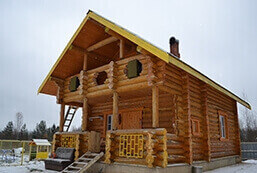
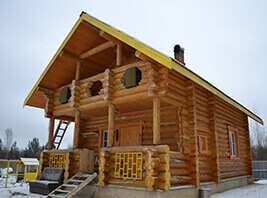
commit

diff --git a/css/style.css b/css/style.css
@@ -1,1 +1,1 @@
-.page-header{-webkit-box-sizing:border-box;box-sizing:border-box;display:-webkit-box;display:-ms-flexbox;display:flex;-webkit-box-orient:vertical;-webkit-box-direction:normal;-ms-flex-direction:column;flex-direction:column;position:fixed;top:0;background-image:url("../img/headerMenuSmallBg.jpg");background-color:#492b10;background-repeat:no-repeat;background-position:top center;background-size:cover;padding:8px 9px;width:100%;z-index:15}.page-header--active{background-image:url("../img/headerMenuBigBg.jpg")}.page-header__logo{width:61px;height:65px}.page-header__btn{position:absolute;top:31px;right:31px;display:block;width:26px;height:22px;background-color:transparent}.page-header__btn span,.page-header__btn span::before,.page-header__btn span::after{position:absolute;top:50%;margin-top:-1px;left:50%;margin-left:-10px;width:20px;height:2px;background-color:#fff}.page-header__btn span::before,.page-header__btn span::after{content:"";display:block;-webkit-transition:.2s;transition:.2s}.page-header__btn span::before{-webkit-transform:translateY(-5px);transform:translateY(-5px)}.page-header__btn span::after{-webkit-transform:translateY(5px);transform:translateY(5px)}.page-header__btn--active span{height:0}.page-header__btn--active span::before{-webkit-transform:rotate(-45deg);transform:rotate(-45deg);-webkit-transform-origin:center;transform-origin:center}.page-header__btn--active span::after{-webkit-transform:rotate(45deg);transform:rotate(45deg);-webkit-transform-origin:center;transform-origin:center}.main-nav__list{padding:0;padding-top:20px;padding-bottom:30px;margin:0;list-style:none;font-family:"Officina Serif C";font-size:16px;font-weight:700;line-height:25.2px;text-transform:uppercase;display:-webkit-box;display:-ms-flexbox;display:flex;-webkit-box-orient:vertical;-webkit-box-direction:normal;-ms-flex-direction:column;flex-direction:column;-webkit-box-pack:justify;-ms-flex-pack:justify;justify-content:space-between;-webkit-box-align:center;-ms-flex-align:center;align-items:center;min-height:400px;display:none}.page-header__contacts{color:#fefefe;text-align:center;margin-top:140px}.page-header__tel{font-family:"Officina Serif C";font-size:20px;font-weight:700;line-height:18.19px;display:block;margin-bottom:13px}.page-header__worktime{font-family:Roboto;font-size:12px;font-weight:400;line-height:13px;display:block;margin-bottom:50px}.page-header__callback{color:#fefefe;font-family:"Officina Serif C";font-size:16px;font-weight:700;line-height:18.19px}.main-nav__list--active{display:-webkit-box;display:-ms-flexbox;display:flex}.main-nav__item{cursor:pointer}.main-nav__item a{color:#fff}@media (min-width: 768px){.page-header{left:0;width:83px;height:100vh;background-image:url("../img/headerMenuTabSmall.jpg");padding:14px 7px}.page-header--active{background-image:url("../img/headerMenuTabBig.jpg");width:209px}.page-header__logo{width:70px;height:74px}.page-header--active .page-header__logo{width:107px;height:113px;margin-top:12px;margin-left:40px}.page-header__btn{top:50%;left:50%;-webkit-transform:translateY(-50%);transform:translateY(-50%);-webkit-transform:translateX(-50%);transform:translateX(-50%)}.page-header__btn::after{content:"Меню";position:absolute;color:#fff;top:30px;left:-5px;font-family:"Officina Serif C";font-size:12px;font-weight:700;line-height:20px;text-transform:uppercase}.page-header--active .page-header__btn{top:10px;left:180px;-webkit-transform:translateY(0);transform:translateY(0);-webkit-transform:translateX(0);transform:translateX(0)}.page-header--active .page-header__btn::after{display:none}.main-nav__list{padding-top:0px;margin-top:52px;padding-left:30px;-webkit-box-align:start;-ms-flex-align:start;align-items:flex-start;min-height:265px}.page-header--active .page-header__contacts{display:block}}@media (min-width: 1025px){.page-header{width:220px;background-image:url("../img/headerMenuTabBig.jpg");padding:29px 36px 0 25px}.page-header__logo{width:159px;height:167px;position:relative}.page-header__logo::after{content:"Качество, проверенное поколениями";position:absolute;color:#fff;font-family:"Officina Serif C";font-size:15px;font-weight:700;line-height:20px;text-transform:uppercase;bottom:-80px;left:0;text-align:center}.page-header__btn{display:none}.main-nav__list{display:-webkit-box;display:-ms-flexbox;display:flex;margin-top:180px;padding-left:10px}.page-header__contacts.hidden-mobile{display:block}}@media (min-width: 1201px){.page-header{width:262px;padding-left:48px;padding-right:55px}}.page-main{margin-top:80px;padding-top:25px}.page-main__breadcrumbs{padding:0;margin:0;list-style-type:none;margin-bottom:40px}.page-main__breadcrumbs li{margin-right:35px;position:relative}.page-main__breadcrumbs li:first-child::after{content:"";position:absolute;width:18px;height:5px;background-image:url(../img/bredcrumbsArrow.png);top:12px;right:-25px}.page-main__breadcrumbs a{color:#1c1c1c;font-family:Roboto;font-size:16px;font-weight:300;line-height:29.98px}.page-main__title{padding:0;margin:0;margin-left:18px;margin-bottom:22px;color:#503314;font-family:"Officina Serif C";font-size:30px;font-weight:700;line-height:30px}.carousel{margin-bottom:10px}.carousel-cell{width:100%;counter-increment:carousel-cell}.carousel-nav .carousel-cell{width:23%;margin-left:12px}.carousel-cell-image{display:block;margin:0 auto;max-width:100%;max-height:100%}.flickity-prev-next-button{background-color:transparent;width:8px;height:14px}.flickity-prev-next-button.previous{left:-5px}.flickity-prev-next-button.next{right:0}.flickity-button:disabled{opacity:1}.flickity-prev-next-button .flickity-button-icon{width:100%;height:100%}.product-floor{display:-webkit-box;display:-ms-flexbox;display:flex;padding-left:15px;padding-right:15px;-webkit-box-pack:justify;-ms-flex-pack:justify;justify-content:space-between}.product-floor__wraper:nth-child(1){margin-right:40px}.product-floor__title{color:#343434;font-family:Roboto;font-size:14px;font-weight:300;display:block;margin-bottom:20px;margin-top:25px}.social{margin-top:34px;padding-left:9px}.social__share{color:#343434;font-family:Roboto;font-size:16px;font-weight:300}.social__list{display:-webkit-box;display:-ms-flexbox;display:flex;list-style:none;padding:0;margin:0;margin-top:15px}.social__button{display:block;width:35px;height:34px;margin-right:12px}.social__button:hover{cursor:pointer}.vk-button{background-image:url("../img/vk.png");background-repeat:no-repeat}.ok-button{background-image:url("../img/ok.png");background-repeat:no-repeat}.fb-button{background-image:url("../img/fb.png");background-repeat:no-repeat}.social__count{display:block;width:57px;height:41px;border-radius:35px;color:#b2b2b2;font-size:14px;line-height:41px;background-color:#e8e8e8;text-align:center;position:relative}.social__count::before{content:"";position:absolute;top:15px;left:-12px;border:7px solid transparent;border-right:7px solid #efefef}.product-characteristics{margin-top:55px;padding-left:10px;padding-right:20px}.characteristics-list{padding:0;margin:0;margin-left:80px;list-style:none;min-height:230px;display:-webkit-box;display:-ms-flexbox;display:flex;-webkit-box-orient:vertical;-webkit-box-direction:normal;-ms-flex-direction:column;flex-direction:column;-webkit-box-pack:justify;-ms-flex-pack:justify;justify-content:space-between;position:relative}.characteristics-list::before{position:absolute;content:"";min-height:235px;width:53px;background-image:url("../img/charIcons.png");left:-70px}.characteristics-list__item{font-size:16px;font-weight:300;line-height:21.94px;font-family:"Roboto";font-weight:300}.characteristics-list__item b{font-weight:700;display:block}.product-characteristics__price{margin:0;padding:0;margin-top:50px;margin-bottom:20px}.price__title{margin:0;margin-bottom:21px;color:#343434;font-family:Roboto;font-size:16px;font-weight:300}.price__text{color:#006022;font-family:"Officina Serif C";font-size:30px;font-weight:700;margin-bottom:35px}.order__button{display:block;-webkit-box-sizing:border-box;box-sizing:border-box;width:255px;height:66px;color:#fff;font-family:"Officina Serif C";font-size:22px;font-weight:700;line-height:66px;text-align:center;background-image:url("../img/buttonBg.jpg");background-position:center center;background-repeat:no-repeat;background-size:110%;background-color:#006022;margin-bottom:37px;cursor:pointer}.product-characteristics__text{color:#1c1c1c;font-size:16px;font-weight:300;line-height:23.94px;margin:0;margin-bottom:31px}@media (min-width: 768px){.page-main{margin-top:0;margin-left:83px;padding:20px 10px}.page-main__breadcrumbs.hidden-mobile{display:-webkit-box;display:-ms-flexbox;display:flex}.page-main__title{font-size:60px;font-weight:700;line-height:60px;margin-left:0;margin-bottom:35px}.page-main__items-wraper{display:-webkit-box;display:-ms-flexbox;display:flex;-ms-flex-wrap:wrap;flex-wrap:wrap}.product-photos{margin:0 auto;min-width:638px}.page-main__slider{width:638px}.product-floor{padding:0}.product-floor__title{font-size:18px;margin-top:45px;margin-bottom:25px}.product-information{margin-left:18px;width:255px}.social{margin-top:0;margin-bottom:55px;padding:0}.social__share{font-size:18px}.product-characteristics{padding:0}.characteristics-list__item{font-size:18px}.price__title{font-size:18px}}@media (min-width: 1025px){.page-main{margin-left:220px;padding-left:20px}.product-photos{min-width:674px}.page-main__slider{width:674px}.product-floor{padding-right:37px}}@media (min-width: 1201px){.page-main{margin-left:664px;padding-left:28px;margin-bottom:50px}.product-information{width:402px;height:100vh;margin:0;position:fixed;top:0;left:262px;background-color:#f7f7f7;padding:30px 50px;-webkit-box-sizing:border-box;box-sizing:border-box}.social{margin-bottom:85px}.product-characteristics__price{margin-bottom:35px}.order__button{margin-bottom:60px}.page-main__title{margin-bottom:42px}.product-photos{display:-webkit-box;display:-ms-flexbox;display:flex;margin:0;-ms-flex-wrap:wrap;flex-wrap:wrap}.page-main__slider{width:773px}.product-floor{-ms-flex-wrap:wrap;flex-wrap:wrap;padding-right:0;max-width:320px;padding-left:50px}.product-floor__wraper:nth-child(1){margin-right:0px;margin-bottom:40px}.product-floor__title{margin-top:0}}.complectation__title{-webkit-box-sizing:border-box;box-sizing:border-box;margin:0;padding:25px 15px;color:#1c1c1c;font-family:"Officina Serif C";font-size:22px;font-weight:700;min-height:104px;background-color:#f2f2f2}.complectation__list{padding:0;margin:0;list-style:none;color:#343434;font-family:Roboto;font-size:16px;font-weight:300}.complectation__item{padding:15px 15px 12px}.complectation__item:nth-child(2n){background-color:#f2f2f2}.complectation__price{height:104px;max-width:541px;line-height:104px;text-align:center;color:#fff;margin:0 15px;font-family:"Officina Serif C";font-size:30px;font-weight:700;background-image:url("../img/complectationImg1.jpg");background-repeat:no-repeat}.complectation__wraper:nth-child(2) .complectation__price{background-image:url("../img/complectationImg2.jpg")}@media (min-width: 768px){.complectation{margin-top:0;margin-left:83px;padding:0px 10px 28px;display:-webkit-box;display:-ms-flexbox;display:flex;-webkit-box-pack:center;-ms-flex-pack:center;justify-content:center}.complectation__wraper{max-width:457px;margin-right:7px}.complectation__wraper:nth-child(2n){margin-right:0px}.complectation__price{margin:0}}@media (min-width: 1025px){.complectation{margin-left:220px;padding-left:20px}.complectation__wraper{margin-right:22px}}@media (min-width: 1201px){.complectation{margin-left:664px;-webkit-box-pack:start;-ms-flex-pack:start;justify-content:flex-start;-ms-flex-wrap:wrap;flex-wrap:wrap}.complectation__wraper{min-width:541px;margin-right:28px}}.delivery{margin-top:20px;background-color:#f2f2f2;padding:23px 15px;position:relative}.delivery__title{margin:0;color:#343434;font-family:"Officina Serif C";font-size:24px;font-weight:700}.delivery__price-text,.delivery__number-text{margin:0;margin-top:30px;font-size:14px;font-weight:300;line-height:21.94px}.delivery__price-text b,.delivery__number-text b{font-size:16px;font-weight:700;line-height:18.95px}.delivery__number-text{margin-bottom:90px;position:relative}.delivery__number-text::after{content:"";position:absolute;width:80%;max-width:420px;height:35px;left:45%;-webkit-transform:translateX(-50%);transform:translateX(-50%);bottom:-70px;background-image:url("../img/deliveryIcon.png"),url("../img/deliveryIcon.png"),url("../img/deliveryIcon.png");background-position:50% 50%,0% 50%,100% 50%;background-repeat:no-repeat,no-repeat,no-repeat}@media (min-width: 768px){.delivery{margin-left:83px;margin-top:0;padding:42px 0 56px}.deliver__wraper{display:-webkit-box;display:-ms-flexbox;display:flex;-webkit-box-orient:vertical;-webkit-box-direction:normal;-ms-flex-direction:column;flex-direction:column;max-width:444px;margin:0 auto}.delivery__title{font-size:30px;text-align:center}.delivery__price-text,.delivery__number-text{font-size:18px;line-height:23.94px;margin-top:23px;text-align:center}.delivery__price-text{-webkit-box-ordinal-group:3;-ms-flex-order:2;order:2}.delivery__number-text{margin-bottom:125px}.delivery__number-text::after{content:"";position:absolute;width:530px;max-width:530px;height:48px;left:50%;top:90px;background-image:url("../img/deliveryIconBig.png"),url("../img/deliveryIconBig.png"),url("../img/deliveryIconBig.png"),url("../img/deliveryIconBig.png");background-position:0% 50%,33% 50%,66% 50%,100% 50%;background-repeat:no-repeat,no-repeat,no-repeat,no-repeat}}@media (min-width: 1025px){.delivery{margin-left:220px}}@media (min-width: 1201px){.delivery{margin-left:664px}}.product-description{padding-top:30px}.product-description__title{padding:0;padding-left:13px;padding-right:11px;margin:0;margin-bottom:25px;font-family:"Officina Serif C";font-size:24px;font-weight:700}.product-description__text{padding:0;padding-left:13px;padding-right:11px;margin:0;font-size:16px;font-weight:300;line-height:21.94px;margin-bottom:45px}.product-description__text--reverse{display:none}.product-description__img{position:relative;width:100%;max-width:829px;margin-bottom:25px;min-height:210px}.product-description__img::after{content:"";position:absolute;width:19px;height:19px;background-color:#fff;border-radius:50%;top:50%;left:41%;-webkit-transform:translateY(-50%);transform:translateY(-50%);-webkit-transform:translateX(-50%);transform:translateX(-50%);background-image:url("../img/descHandTool.png");background-repeat:no-repeat;background-size:50%;background-position:50% 50%;cursor:pointer}.product-description__img::before{content:"";position:absolute;width:100%;height:100%;background-image:url("../img/descImg2.png");background-repeat:no-repeat;background-position:100% 100%;background-size:85%}@media (min-width: 768px){.product-description{margin-left:83px;padding:58px 25px 0 24px;margin-bottom:52px}.product-description__title{font-size:30px;text-align:center;padding:0}.product-description__text.product-description__text--reverse{display:block;line-height:23.94px;text-align:center;padding:0}.product-description__text{display:none}.product-description__img{margin:0 auto}}@media (min-width: 1025px){.product-description{margin-left:220px;padding-left:20px;padding-right:27px}}@media (min-width: 1201px){.product-description{margin-left:664px}}.example{padding:0 7px}.example__title{margin:0 0 23px 16px;color:#1c1c1c;font-family:"Officina Serif C";font-size:24px;font-weight:700}.example__video{margin-bottom:40px;position:relative;max-width:539px;max-height:363px}.example__video::before{content:"";position:absolute;width:100%;height:100%;max-width:539px;max-height:363px;background:#000;opacity:.3}.example__video::after{content:"";position:absolute;width:33px;height:28px;background-image:url("../img/video.png");background-repeat:no-repeat;background-position:50% 50%;left:50%;top:50%;-webkit-transform:translateY(-50%);transform:translateY(-50%);-webkit-transform:translateX(-50%);transform:translateX(-50%)}.example__adress{display:block;margin-top:24px;font-size:16px;font-weight:300;margin-bottom:20px}.example-feedback__img{position:relative}.example-feedback__img::after{position:absolute;content:"pdf";width:29px;height:19px;background-color:#006022;color:#fff;font-size:10px;line-height:19px;text-align:center;font-weight:700;text-transform:uppercase}@media (min-width: 768px){.example{margin-left:83px;padding:10px 35px 55px 55px}.example__wraper{display:-webkit-box;display:-ms-flexbox;display:flex;margin:0 auto;-webkit-box-pack:center;-ms-flex-pack:center;justify-content:center}.example__video{-webkit-box-ordinal-group:3;-ms-flex-order:2;order:2;margin-left:51px}.example__title{font-size:30px;text-align:center;margin-bottom:35px;margin-left:0}}@media (min-width: 1025px){.example{margin-left:220px}}@media (min-width: 1201px){.example{margin-left:664px;padding-bottom:50px;padding-left:28px}.example__images.hidden-mobile{display:block;margin-right:28px}.example__wraper{-webkit-box-pack:start;-ms-flex-pack:start;justify-content:flex-start}.example__video{margin-left:30px}}@media (min-width: 1201px){.gallery.hidden-mobile{margin-left:664px;display:-webkit-box;display:-ms-flexbox;display:flex;-ms-flex-wrap:wrap;flex-wrap:wrap;padding-left:28px;margin-bottom:105px}.gallery__img{margin-bottom:15px;margin-right:14px}.gallery__img:nth-child(4n){margin-right:0}}.footer__information{display:-webkit-box;display:-ms-flexbox;display:flex;-webkit-box-pack:justify;-ms-flex-pack:justify;justify-content:space-between;margin-bottom:55px}.footer__navigation{display:-webkit-box;display:-ms-flexbox;display:flex;-webkit-box-pack:justify;-ms-flex-pack:justify;justify-content:space-between;color:#494949;font-size:15px;font-weight:300;line-height:29.92px}.production-nav{margin-right:70px}.production-nav__title,.projects-nav__title{font-weight:700;margin:0;margin-bottom:5px}.production-nav__list,.projects-nav__list{list-style:none;padding:0;margin:0}.production-nav__list a,.projects-nav__list a{color:#494949}.footer-contacts{display:-webkit-box;display:-ms-flexbox;display:flex;color:#494949;font-size:15px;font-weight:300;line-height:21.94px}.footer-contacts__address{margin-right:90px}.production-addres{margin-bottom:30px}.production-addres__title,.office__addres__title{margin:0;font-weight:700;margin-bottom:5px}.production-addres__text a,.office__addres__text a{display:block;color:#006022}.footer-contacts__links{color:#494949;font-size:15px;font-weight:300;line-height:29.92px}.footer-contacts__tel{font-weight:700;color:#494949;display:block}.footer-contacts__time,.footer-contacts__mail{display:block}.footer-contacts__mail{color:#006022}.footer-social{margin-top:40px;max-width:110px;display:-webkit-box;display:-ms-flexbox;display:flex;-webkit-box-pack:justify;-ms-flex-pack:justify;justify-content:space-between;-webkit-box-align:center;-ms-flex-align:center;align-items:center}.footer-social__button{background-repeat:no-repeat;background-position:center center}.Vkontakte-btn{width:24px;height:14px;background-image:url("../img/footerVk.png")}.Instagram-btn{background-image:url("../img/footerIg.png");width:17px;height:17px}.Facebook-btn{background-image:url("../img/footerFb.png");width:11px;height:21px}.footer__copyright{display:-webkit-box;display:-ms-flexbox;display:flex;-webkit-box-pack:justify;-ms-flex-pack:justify;justify-content:space-between}.customer__copyright{font-family:"PT Sans";font-size:12px;font-weight:400;line-height:14px;margin:0}.prefomer__text{text-decoration:underline}.performer__copyright{font-family:"Arial - Italic MT";position:relative;color:#494949;font-size:12px;font-weight:400;line-height:23px}.performer__copyright:before{content:"";position:absolute;width:74px;height:23px;background-image:url("../img/perfomerCopyright.png");background-repeat:no-repeat;background-position:center center;left:-80px;top:-6px}@media (min-width: 1201px){.footer.hidden-mobile{margin-left:664px;display:-webkit-box;display:-ms-flexbox;display:flex;-webkit-box-orient:vertical;-webkit-box-direction:normal;-ms-flex-direction:column;flex-direction:column;padding:0px 35px 25px 25px}}body{margin:0;padding:0;min-width:320px;-webkit-box-sizing:border-box;box-sizing:border-box;font-family:"Roboto","Officina Serif C",sans-serif;color:#1c1c1c}a{text-decoration:none}img{max-width:100%;height:auto}.hidden-mobile{display:none}.visually-hidden{display:none}
+.page-header{-webkit-box-sizing:border-box;box-sizing:border-box;display:-webkit-box;display:-ms-flexbox;display:flex;-webkit-box-orient:vertical;-webkit-box-direction:normal;-ms-flex-direction:column;flex-direction:column;position:fixed;top:0;background-image:url("../img/headerMenuSmallBg.jpg");background-color:#492b10;background-repeat:no-repeat;background-position:top center;background-size:cover;padding:8px 9px;width:100%;z-index:15}.page-header--active{background-image:url("../img/headerMenuBigBg.jpg")}.page-header__logo{width:61px;height:65px}.page-header__btn{position:absolute;top:31px;right:31px;display:block;width:26px;height:22px;background-color:transparent}.page-header__btn span,.page-header__btn span::before,.page-header__btn span::after{position:absolute;top:50%;margin-top:-1px;left:50%;margin-left:-10px;width:20px;height:2px;background-color:#fff}.page-header__btn span::before,.page-header__btn span::after{content:"";display:block;-webkit-transition:.2s;transition:.2s}.page-header__btn span::before{-webkit-transform:translateY(-5px);transform:translateY(-5px)}.page-header__btn span::after{-webkit-transform:translateY(5px);transform:translateY(5px)}.page-header__btn--active span{height:0}.page-header__btn--active span::before{-webkit-transform:rotate(-45deg);transform:rotate(-45deg);-webkit-transform-origin:center;transform-origin:center}.page-header__btn--active span::after{-webkit-transform:rotate(45deg);transform:rotate(45deg);-webkit-transform-origin:center;transform-origin:center}.main-nav__list{padding:0;padding-top:20px;padding-bottom:30px;margin:0;list-style:none;font-family:"Officina Serif C";font-size:16px;font-weight:700;line-height:25.2px;text-transform:uppercase;display:-webkit-box;display:-ms-flexbox;display:flex;-webkit-box-orient:vertical;-webkit-box-direction:normal;-ms-flex-direction:column;flex-direction:column;-webkit-box-pack:justify;-ms-flex-pack:justify;justify-content:space-between;-webkit-box-align:center;-ms-flex-align:center;align-items:center;min-height:400px;display:none}.page-header__contacts{color:#fefefe;text-align:center;margin-top:140px}.page-header__tel{font-family:"Officina Serif C";font-size:20px;font-weight:700;line-height:18.19px;display:block;margin-bottom:13px}.page-header__worktime{font-family:Roboto;font-size:12px;font-weight:400;line-height:13px;display:block;margin-bottom:50px}.page-header__callback{color:#fefefe;font-family:"Officina Serif C";font-size:16px;font-weight:700;line-height:18.19px}.main-nav__list--active{display:-webkit-box;display:-ms-flexbox;display:flex}.main-nav__item{cursor:pointer}.main-nav__item a{color:#fff}@media (min-width: 768px){.page-header{left:0;width:83px;height:100vh;background-image:url("../img/headerMenuTabSmall.jpg");padding:14px 7px}.page-header--active{background-image:url("../img/headerMenuTabBig.jpg");width:209px}.page-header__logo{width:70px;height:74px}.page-header--active .page-header__logo{width:107px;height:113px;margin-top:12px;margin-left:40px}.page-header__btn{top:50%;left:50%;-webkit-transform:translateY(-50%);transform:translateY(-50%);-webkit-transform:translateX(-50%);transform:translateX(-50%)}.page-header__btn::after{content:"Меню";position:absolute;color:#fff;top:30px;left:-5px;font-family:"Officina Serif C";font-size:12px;font-weight:700;line-height:20px;text-transform:uppercase}.page-header--active .page-header__btn{top:10px;left:180px;-webkit-transform:translateY(0);transform:translateY(0);-webkit-transform:translateX(0);transform:translateX(0)}.page-header--active .page-header__btn::after{display:none}.main-nav__list{padding-top:0px;margin-top:52px;padding-left:30px;-webkit-box-align:start;-ms-flex-align:start;align-items:flex-start;min-height:265px}.page-header--active .page-header__contacts{display:block}}@media (min-width: 1025px){.page-header{width:220px;background-image:url("../img/headerMenuTabBig.jpg");padding:29px 36px 0 25px}.page-header__logo{width:159px;height:167px;position:relative}.page-header__logo::after{content:"Качество, проверенное поколениями";position:absolute;color:#fff;font-family:"Officina Serif C";font-size:15px;font-weight:700;line-height:20px;text-transform:uppercase;bottom:-80px;left:0;text-align:center}.page-header__btn{display:none}.main-nav__list{display:-webkit-box;display:-ms-flexbox;display:flex;margin-top:180px;padding-left:10px}.page-header__contacts.hidden-mobile{display:block}}@media (min-width: 1201px){.page-header{width:262px;padding-left:48px;padding-right:55px}}.page-main{margin-top:80px;padding-top:25px}.page-main__breadcrumbs{padding:0;margin:0;list-style-type:none;margin-bottom:40px}.page-main__breadcrumbs li{margin-right:35px;position:relative}.page-main__breadcrumbs li:first-child::after{content:"";position:absolute;width:18px;height:5px;background-image:url(../img/bredcrumbsArrow.png);top:12px;right:-25px}.page-main__breadcrumbs a{color:#1c1c1c;font-family:Roboto;font-size:16px;font-weight:300;line-height:29.98px}.page-main__title{padding:0;margin:0;margin-left:18px;margin-bottom:22px;color:#503314;font-family:"Officina Serif C";font-size:30px;font-weight:700;line-height:30px}.carousel{margin-bottom:10px}.carousel-cell{width:100%;counter-increment:carousel-cell}.carousel-nav .carousel-cell{width:23%;margin-left:12px}.carousel-cell-image{display:block;margin:0 auto;max-width:100%;max-height:100%}.flickity-prev-next-button{background-color:transparent;width:8px;height:14px}.flickity-prev-next-button.previous{left:-5px}.flickity-prev-next-button.next{right:0}.flickity-button:disabled{opacity:1}.flickity-prev-next-button .flickity-button-icon{width:100%;height:100%}.product-floor{display:-webkit-box;display:-ms-flexbox;display:flex;padding-left:15px;padding-right:15px;-webkit-box-pack:justify;-ms-flex-pack:justify;justify-content:space-between}.product-floor__wraper:nth-child(1){margin-right:40px}.product-floor__title{color:#343434;font-family:Roboto;font-size:14px;font-weight:300;display:block;margin-bottom:20px;margin-top:25px}.social{margin-top:34px;padding-left:9px}.social__share{color:#343434;font-family:Roboto;font-size:16px;font-weight:300}.social__list{display:-webkit-box;display:-ms-flexbox;display:flex;list-style:none;padding:0;margin:0;margin-top:15px}.social__button{display:block;width:35px;height:34px;margin-right:12px}.social__button:hover{cursor:pointer}.vk-button{background-image:url("../img/vk.png");background-repeat:no-repeat}.ok-button{background-image:url("../img/ok.png");background-repeat:no-repeat}.fb-button{background-image:url("../img/fb.png");background-repeat:no-repeat}.social__count{display:block;width:57px;height:41px;border-radius:35px;color:#b2b2b2;font-size:14px;line-height:41px;background-color:#e8e8e8;text-align:center;position:relative}.social__count::before{content:"";position:absolute;top:15px;left:-12px;border:7px solid transparent;border-right:7px solid #efefef}.product-characteristics{margin-top:55px;padding-left:10px;padding-right:20px}.characteristics-list{padding:0;margin:0;margin-left:80px;list-style:none;min-height:230px;display:-webkit-box;display:-ms-flexbox;display:flex;-webkit-box-orient:vertical;-webkit-box-direction:normal;-ms-flex-direction:column;flex-direction:column;-webkit-box-pack:justify;-ms-flex-pack:justify;justify-content:space-between;position:relative}.characteristics-list::before{position:absolute;content:"";min-height:235px;width:53px;background-image:url("../img/charIcons.png");left:-70px}.characteristics-list__item{font-size:16px;font-weight:300;line-height:21.94px;font-family:"Roboto";font-weight:300}.characteristics-list__item b{font-weight:700;display:block}.product-characteristics__price{margin:0;padding:0;margin-top:50px;margin-bottom:20px}.price__title{margin:0;margin-bottom:21px;color:#343434;font-family:Roboto;font-size:16px;font-weight:300}.price__text{color:#006022;font-family:"Officina Serif C";font-size:30px;font-weight:700;margin-bottom:35px}.order__button{display:block;-webkit-box-sizing:border-box;box-sizing:border-box;width:255px;height:66px;color:#fff;font-family:"Officina Serif C";font-size:22px;font-weight:700;line-height:66px;text-align:center;background-image:url("../img/buttonBg.jpg");background-position:center center;background-repeat:no-repeat;background-size:110%;background-color:#006022;margin-bottom:37px;cursor:pointer}.product-characteristics__text{color:#1c1c1c;font-size:16px;font-weight:300;line-height:23.94px;margin:0;margin-bottom:31px}@media (min-width: 768px){.page-main{margin-top:0;margin-left:83px;padding:20px 10px}.page-main__breadcrumbs.hidden-mobile{display:-webkit-box;display:-ms-flexbox;display:flex}.page-main__title{font-size:60px;font-weight:700;line-height:60px;margin-left:0;margin-bottom:35px}.page-main__items-wraper{display:-webkit-box;display:-ms-flexbox;display:flex;-ms-flex-wrap:wrap;flex-wrap:wrap}.product-photos{margin:0 auto;min-width:638px}.page-main__slider{width:638px}.product-floor{padding:0}.product-floor__title{font-size:18px;margin-top:45px;margin-bottom:25px}.product-information{margin-left:18px;width:255px}.social{margin-top:0;margin-bottom:55px;padding:0}.social__share{font-size:18px}.product-characteristics{padding:0}.characteristics-list__item{font-size:18px}.price__title{font-size:18px}}@media (min-width: 1025px){.page-main{margin-left:220px;padding-left:20px}.product-photos{min-width:674px}.page-main__slider{width:674px}.product-floor{padding-right:37px}}@media (min-width: 1201px){.page-main{margin-left:664px;padding-left:28px;margin-bottom:50px}.product-information{width:402px;height:100vh;margin:0;position:fixed;top:0;left:262px;background-color:#f7f7f7;padding:30px 50px;-webkit-box-sizing:border-box;box-sizing:border-box}.social{margin-bottom:85px}.product-characteristics__price{margin-bottom:35px}.order__button{margin-bottom:60px}.page-main__title{margin-bottom:42px}.product-photos{display:-webkit-box;display:-ms-flexbox;display:flex;margin:0;-ms-flex-wrap:wrap;flex-wrap:wrap}.page-main__slider{width:773px}.product-floor{-ms-flex-wrap:wrap;flex-wrap:wrap;padding-right:0;max-width:320px;padding-left:50px}.product-floor__wraper:nth-child(1){margin-right:0px;margin-bottom:40px}.product-floor__title{margin-top:0}}.complectation__title{-webkit-box-sizing:border-box;box-sizing:border-box;margin:0;padding:25px 15px;color:#1c1c1c;font-family:"Officina Serif C";font-size:22px;font-weight:700;min-height:104px;background-color:#f2f2f2}.complectation__list{padding:0;margin:0;list-style:none;color:#343434;font-family:Roboto;font-size:16px;font-weight:300}.complectation__item{padding:15px 15px 12px}.complectation__item:nth-child(2n){background-color:#f2f2f2}.complectation__price{height:104px;max-width:541px;line-height:104px;text-align:center;color:#fff;margin:0 15px;font-family:"Officina Serif C";font-size:30px;font-weight:700;background-image:url("../img/complectationImg1.jpg");background-repeat:no-repeat}.complectation__wraper:nth-child(2) .complectation__price{background-image:url("../img/complectationImg2.jpg")}@media (min-width: 768px){.complectation{margin-top:0;margin-left:83px;padding:0px 10px 28px;display:-webkit-box;display:-ms-flexbox;display:flex;-webkit-box-pack:center;-ms-flex-pack:center;justify-content:center}.complectation__wraper{max-width:457px;margin-right:7px}.complectation__wraper:nth-child(2n){margin-right:0px}.complectation__price{margin:0}}@media (min-width: 1025px){.complectation{margin-left:220px;padding-left:20px}.complectation__wraper{margin-right:22px}}@media (min-width: 1201px){.complectation{margin-left:664px;-webkit-box-pack:start;-ms-flex-pack:start;justify-content:flex-start;-ms-flex-wrap:wrap;flex-wrap:wrap}.complectation__wraper{min-width:541px;margin-right:28px}}.delivery{margin-top:20px;background-color:#f2f2f2;padding:23px 15px;position:relative}.delivery__title{margin:0;color:#343434;font-family:"Officina Serif C";font-size:24px;font-weight:700}.delivery__price-text,.delivery__number-text{margin:0;margin-top:30px;font-size:14px;font-weight:300;line-height:21.94px}.delivery__price-text b,.delivery__number-text b{font-size:16px;font-weight:700;line-height:18.95px}.delivery__number-text{margin-bottom:90px;position:relative}.delivery__number-text::after{content:"";position:absolute;width:80%;max-width:420px;height:35px;left:45%;-webkit-transform:translateX(-50%);transform:translateX(-50%);bottom:-70px;background-image:url("../img/deliveryIcon.png"),url("../img/deliveryIcon.png"),url("../img/deliveryIcon.png");background-position:50% 50%,0% 50%,100% 50%;background-repeat:no-repeat,no-repeat,no-repeat}@media (min-width: 768px){.delivery{margin-left:83px;margin-top:0;padding:42px 0 56px}.deliver__wraper{display:-webkit-box;display:-ms-flexbox;display:flex;-webkit-box-orient:vertical;-webkit-box-direction:normal;-ms-flex-direction:column;flex-direction:column;max-width:444px;margin:0 auto}.delivery__title{font-size:30px;text-align:center}.delivery__price-text,.delivery__number-text{font-size:18px;line-height:23.94px;margin-top:23px;text-align:center}.delivery__price-text{-webkit-box-ordinal-group:3;-ms-flex-order:2;order:2}.delivery__number-text{margin-bottom:125px}.delivery__number-text::after{content:"";position:absolute;width:530px;max-width:530px;height:48px;left:50%;top:90px;background-image:url("../img/deliveryIconBig.png"),url("../img/deliveryIconBig.png"),url("../img/deliveryIconBig.png"),url("../img/deliveryIconBig.png");background-position:0% 50%,33% 50%,66% 50%,100% 50%;background-repeat:no-repeat,no-repeat,no-repeat,no-repeat}}@media (min-width: 1025px){.delivery{margin-left:220px}}@media (min-width: 1201px){.delivery{margin-left:664px}}.product-description{padding-top:30px}.product-description__title{padding:0;padding-left:13px;padding-right:11px;margin:0;margin-bottom:25px;font-family:"Officina Serif C";font-size:24px;font-weight:700}.product-description__text{padding:0;padding-left:13px;padding-right:11px;margin:0;font-size:16px;font-weight:300;line-height:21.94px;margin-bottom:45px}.product-description__text--reverse{display:none}.product-description__img{position:relative;width:100%;max-width:829px;margin-bottom:25px;min-height:210px}.product-description__img::after{content:"";position:absolute;width:19px;height:19px;background-color:#fff;border-radius:50%;top:50%;left:41%;-webkit-transform:translateY(-50%);transform:translateY(-50%);-webkit-transform:translateX(-50%);transform:translateX(-50%);background-image:url("../img/descHandTool.png");background-repeat:no-repeat;background-size:50%;background-position:50% 50%;cursor:pointer}.product-description__img::before{content:"";position:absolute;width:100%;height:100%;background-image:url("../img/descImg2.png");background-repeat:no-repeat;background-position:100% 100%;background-size:85%}@media (min-width: 768px){.product-description{margin-left:83px;padding:58px 25px 0 24px;margin-bottom:52px}.product-description__title{font-size:30px;text-align:center;padding:0}.product-description__text.product-description__text--reverse{display:block;line-height:23.94px;text-align:center;padding:0}.product-description__text{display:none}.product-description__img{margin:0 auto}}@media (min-width: 1025px){.product-description{margin-left:220px;padding-left:20px;padding-right:27px}}@media (min-width: 1201px){.product-description{margin-left:664px}}.example{padding:0 7px}.example__title{margin:0 0 23px 16px;color:#1c1c1c;font-family:"Officina Serif C";font-size:24px;font-weight:700}.example__video{margin-bottom:40px;position:relative;max-width:539px;max-height:363px}.example__video::before{content:"";position:absolute;width:100%;height:100%;max-width:539px;max-height:363px;background:#000;opacity:.3}.example__video::after{content:"";position:absolute;width:33px;height:28px;background-image:url("../img/video.png");background-repeat:no-repeat;background-position:50% 50%;left:50%;top:50%;-webkit-transform:translateY(-50%);transform:translateY(-50%);-webkit-transform:translateX(-50%);transform:translateX(-50%)}.example__img{max-width:257px;max-height:173px}.example__adress{display:block;margin-top:24px;font-size:16px;font-weight:300;margin-bottom:20px}.example-feedback__img{position:relative}.example-feedback__img::after{position:absolute;content:"pdf";width:29px;height:19px;background-color:#006022;color:#fff;font-size:10px;line-height:19px;text-align:center;font-weight:700;text-transform:uppercase}@media (min-width: 768px){.example{margin-left:83px;padding:10px 35px 55px 55px}.example__wraper{display:-webkit-box;display:-ms-flexbox;display:flex;margin:0 auto;-webkit-box-pack:center;-ms-flex-pack:center;justify-content:center}.example__video{-webkit-box-ordinal-group:3;-ms-flex-order:2;order:2;margin-left:51px}.example__title{font-size:30px;text-align:center;margin-bottom:35px;margin-left:0}}@media (min-width: 1025px){.example{margin-left:220px}}@media (min-width: 1201px){.example{margin-left:664px;padding-bottom:50px;padding-left:28px}.example__images.hidden-mobile{display:block;margin-right:28px}.example__wraper{-webkit-box-pack:start;-ms-flex-pack:start;justify-content:flex-start}.example__video{margin-left:30px}}@media (min-width: 1201px){.gallery.hidden-mobile{margin-left:664px;display:-webkit-box;display:-ms-flexbox;display:flex;-ms-flex-wrap:wrap;flex-wrap:wrap;padding-left:28px;margin-bottom:105px}.gallery__img{margin-bottom:15px;margin-right:14px}.gallery__img:nth-child(4n){margin-right:0}}.footer__information{display:-webkit-box;display:-ms-flexbox;display:flex;-webkit-box-pack:justify;-ms-flex-pack:justify;justify-content:space-between;margin-bottom:55px}.footer__navigation{display:-webkit-box;display:-ms-flexbox;display:flex;-webkit-box-pack:justify;-ms-flex-pack:justify;justify-content:space-between;color:#494949;font-size:15px;font-weight:300;line-height:29.92px}.production-nav{margin-right:70px}.production-nav__title,.projects-nav__title{font-weight:700;margin:0;margin-bottom:5px}.production-nav__list,.projects-nav__list{list-style:none;padding:0;margin:0}.production-nav__list a,.projects-nav__list a{color:#494949}.footer-contacts{display:-webkit-box;display:-ms-flexbox;display:flex;color:#494949;font-size:15px;font-weight:300;line-height:21.94px}.footer-contacts__address{margin-right:90px}.production-addres{margin-bottom:30px}.production-addres__title,.office__addres__title{margin:0;font-weight:700;margin-bottom:5px}.production-addres__text a,.office__addres__text a{display:block;color:#006022}.footer-contacts__links{color:#494949;font-size:15px;font-weight:300;line-height:29.92px}.footer-contacts__tel{font-weight:700;color:#494949;display:block}.footer-contacts__time,.footer-contacts__mail{display:block}.footer-contacts__mail{color:#006022}.footer-social{margin-top:40px;max-width:110px;display:-webkit-box;display:-ms-flexbox;display:flex;-webkit-box-pack:justify;-ms-flex-pack:justify;justify-content:space-between;-webkit-box-align:center;-ms-flex-align:center;align-items:center}.footer-social__button{background-repeat:no-repeat;background-position:center center}.Vkontakte-btn{width:24px;height:14px;background-image:url("../img/footerVk.png")}.Instagram-btn{background-image:url("../img/footerIg.png");width:17px;height:17px}.Facebook-btn{background-image:url("../img/footerFb.png");width:11px;height:21px}.footer__copyright{display:-webkit-box;display:-ms-flexbox;display:flex;-webkit-box-pack:justify;-ms-flex-pack:justify;justify-content:space-between}.customer__copyright{font-family:"PT Sans";font-size:12px;font-weight:400;line-height:14px;margin:0}.prefomer__text{text-decoration:underline}.performer__copyright{font-family:"Arial - Italic MT";position:relative;color:#494949;font-size:12px;font-weight:400;line-height:23px}.performer__copyright:before{content:"";position:absolute;width:74px;height:23px;background-image:url("../img/perfomerCopyright.png");background-repeat:no-repeat;background-position:center center;left:-80px;top:-6px}@media (min-width: 1201px){.footer.hidden-mobile{margin-left:664px;display:-webkit-box;display:-ms-flexbox;display:flex;-webkit-box-orient:vertical;-webkit-box-direction:normal;-ms-flex-direction:column;flex-direction:column;padding:0px 35px 25px 25px}}body{margin:0;padding:0;min-width:320px;-webkit-box-sizing:border-box;box-sizing:border-box;font-family:"Roboto","Officina Serif C",sans-serif;color:#1c1c1c}a{text-decoration:none}img{max-width:100%;height:auto}.hidden-mobile{display:none}.visually-hidden{display:none}

diff --git a/index.html b/index.html
@@ -194,7 +194,7 @@
 
  <section class="gallery hidden-mobile">
  	<h2 class="visually-hidden">Галерея объектов</h2>
- 	<img src="img/galleryImg1.jpg" alt="Фото Объекта1" class="gallery__img">
+ 	<img src="img/exampleImg2.jpg" alt="Фото Объекта1" class="gallery__img">
  	<img src="img/galleryImg2.jpg" alt="Фото Объекта2" class="gallery__img">
  	<img src="img/galleryImg3.jpg" alt="Фото Объекта3" class="gallery__img">
  	<img src="img/galleryImg4.jpg" alt="Фото Объекта4" class="gallery__img">

diff --git a/sass/example.sass b/sass/example.sass
@@ -35,6 +35,10 @@
 		transform: translateY(-50%)	
 		transform: translateX(-50%)
 
+.example__img
+	max-width: 257px
+	max-height: 173px
+
 .example__adress
 	display: block
 	margin-top: 24px
